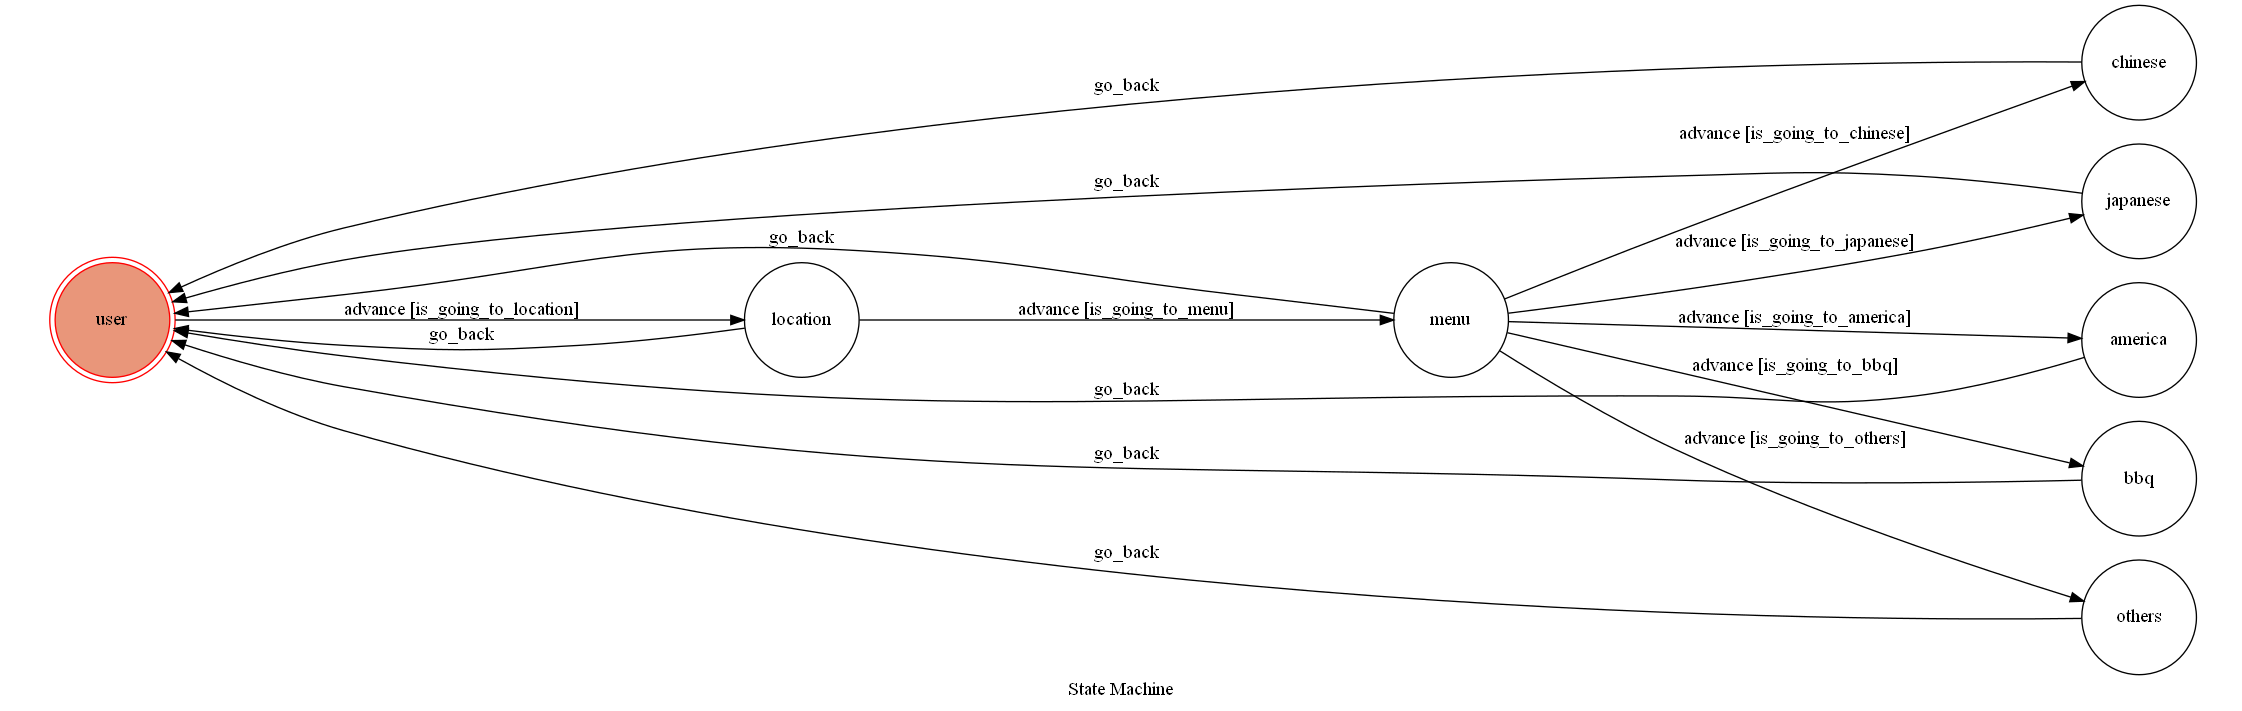
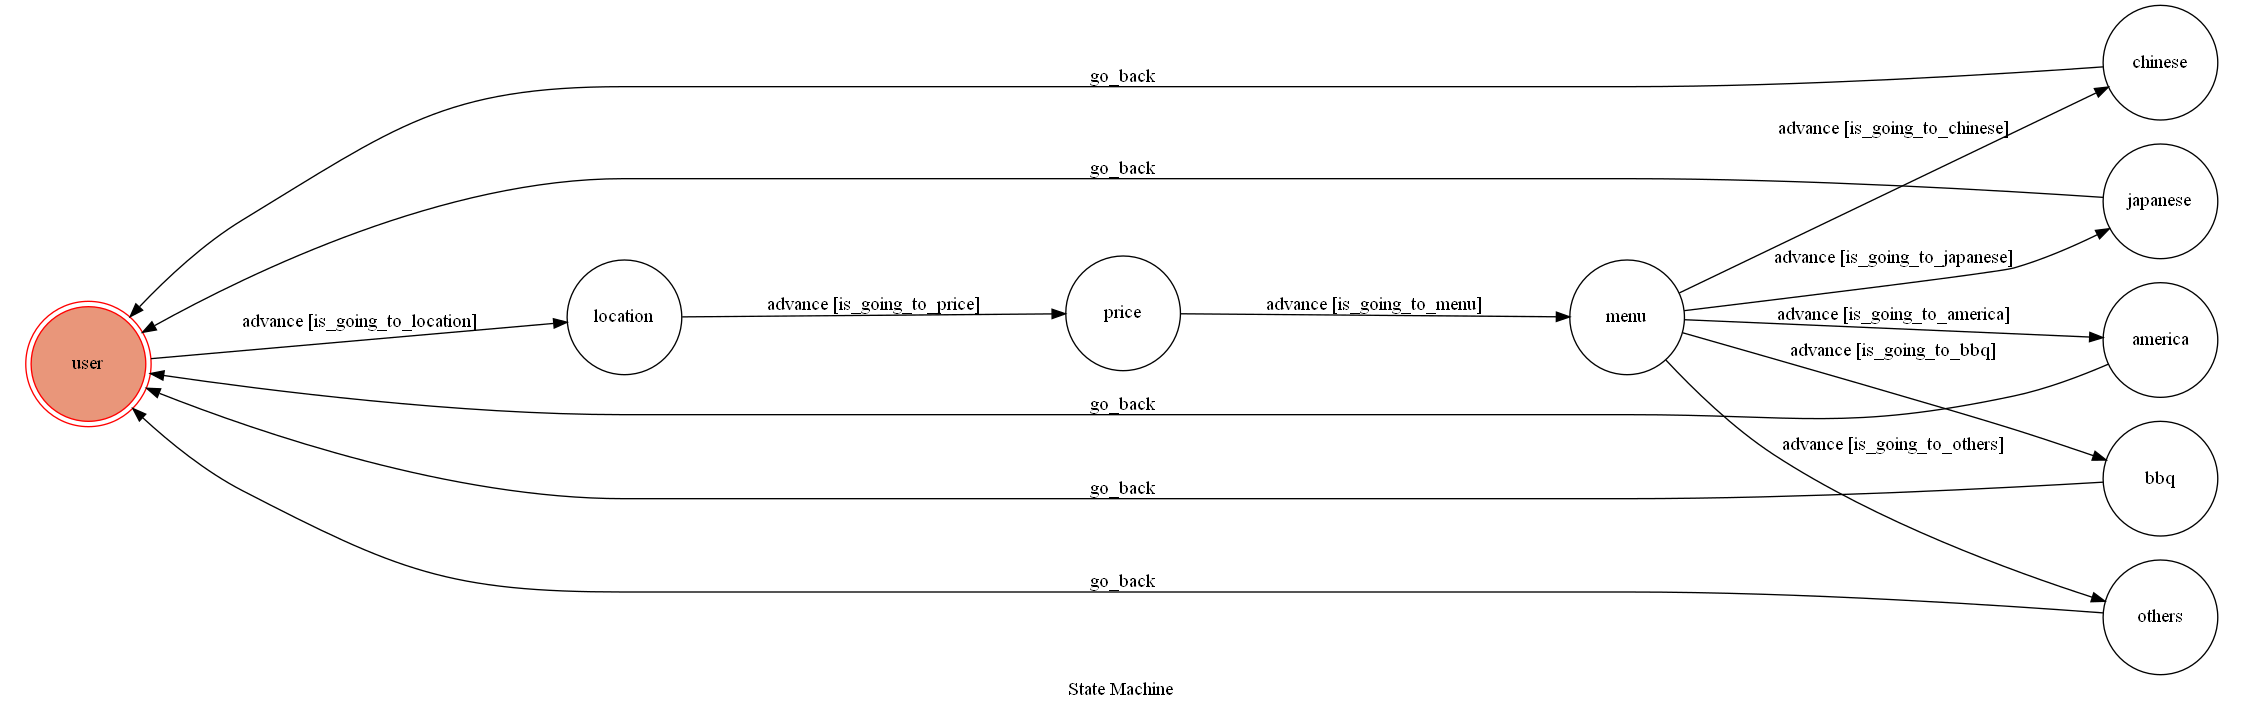
add more location and price

diff --git a/fsm.py b/fsm.py
@@ -1,6 +1,6 @@
 from transitions.extensions import GraphMachine
 
-from utils import push_text_message, send_button_message, send_image_url, send_text_message
+from utils import push_button_message, push_text_message, send_button_message, send_image_url, send_text_message
 from linebot.models import ButtonsTemplate,MessageTemplateAction
 
 import requests
@@ -14,6 +14,23 @@ class TocMachine(GraphMachine):
         text = event.message.text
         self.text=text+"市"
         return 1
+
+    def is_going_to_price(self, event):
+        text = event.message.text
+        self.price_text=text
+        if text=="150以內":
+            self.price=1
+            return 1
+        elif text=="150-600":
+            self.price=2
+            return 1
+        elif text=="600-1200":
+            self.price=3
+            return 1
+        elif text=="1200以上":
+            self.price=4
+            return 1
+        return 0
 
     def is_going_to_menu(self, event):
         text = event.message.text
@@ -41,7 +58,46 @@ class TocMachine(GraphMachine):
 
     def on_enter_location(self, event):
         print("I'm entering location")
-        push_text_message(event.source.user_id,"您選擇了%s，請輸入“選單”"%(self.text))
+        reply_token = event.reply_token
+        buttons=ButtonsTemplate(
+                                title='price',
+                                text='請選擇想要的價位',
+                                actions=[
+                                    MessageTemplateAction(
+                                        label='150以內',
+                                        text='150以內'
+                                    ),
+                                    MessageTemplateAction(
+                                        label='150-600',
+                                        text='150-600'
+                                    ),
+                                    MessageTemplateAction(
+                                        label='600-1200',
+                                        text='600-1200'
+                                    ),
+                                    MessageTemplateAction(
+                                        label='1200以上',
+                                        text='1200以上'
+                                    )
+                                ]
+                            )
+        push_text_message(event.source.user_id,"您選擇了%s"%(self.text))
+        send_button_message(reply_token,"Menu",buttons)
+        
+    def on_enter_price(self, event):
+        print("I'm entering price")
+        reply_token = event.reply_token
+        buttons=ButtonsTemplate(
+                                title='Menu',
+                                text="您選擇了%s,請點選“選單”"%(self.price_text),
+                                actions=[
+                                    MessageTemplateAction(
+                                        label='選單',
+                                        text='選單'
+                                    )
+                                ]
+                            )
+        send_button_message(reply_token,"Menu",buttons)
 
     def on_enter_menu(self, event):
         print("I'm entering menu")
@@ -78,7 +134,7 @@ class TocMachine(GraphMachine):
 
         reply_token = event.reply_token
         try:
-            url="https://ifoodie.tw/explore/"+self.text+"/list/%E4%B8%AD%E5%BC%8F%E6%96%99%E7%90%86"
+            url="https://ifoodie.tw/explore/"+self.text+"/list/中式料理?priceLevel="+str(self.price)+"&opening=true"
             res=requests.get(url)
             root=bs4.BeautifulSoup(res.text,"html.parser")
             titles=root.find_all("a")
@@ -94,7 +150,29 @@ class TocMachine(GraphMachine):
             send_text_message(reply_token,random.choice(list))
         except:
             send_text_message(reply_token,"抱歉！我們找不到您所輸入的餐廳")
-        push_text_message(event.source.user_id,"您好！若要尋找餐廳請先輸入您現在所在的城市：")
+        buttons=ButtonsTemplate(
+                                title='請選擇城市',
+                                text='您好！若要尋找餐廳請先輸入您現在所在的城市(若選項中沒有對應的城市可自行輸入)：',
+                                actions=[
+                                    MessageTemplateAction(
+                                        label='台北',
+                                        text='台北'
+                                    ),
+                                    MessageTemplateAction(
+                                        label='新北',
+                                        text='新北'
+                                    ),
+                                    MessageTemplateAction(
+                                        label='高雄',
+                                        text='高雄'
+                                    ),
+                                    MessageTemplateAction(
+                                        label='台南',
+                                        text='台南'
+                                    )
+                                ]
+                            )
+        push_button_message(event.source.user_id,"location",buttons)
         self.go_back()
 
     def on_exit_chinese(self):
@@ -105,7 +183,7 @@ class TocMachine(GraphMachine):
 
         reply_token = event.reply_token
         try:
-            url="https://ifoodie.tw/explore/"+self.text+"/list/%E6%97%A5%E6%9C%AC%E6%96%99%E7%90%86"
+            url="https://ifoodie.tw/explore/"+self.text+"/list/日式料理?priceLevel="+str(self.price)+"&opening=true"
             res=requests.get(url)
             root=bs4.BeautifulSoup(res.text,"html.parser")
             titles=root.find_all("a")
@@ -121,7 +199,29 @@ class TocMachine(GraphMachine):
             send_text_message(reply_token,random.choice(list))
         except:
             send_text_message(reply_token,"抱歉！我們找不到您所輸入的餐廳")
-        push_text_message(event.source.user_id,"您好！若要尋找餐廳請先輸入您現在所在的城市：")
+        buttons=ButtonsTemplate(
+                                title='請選擇城市',
+                                text='您好！若要尋找餐廳請先輸入您現在所在的城市(若選項中沒有對應的城市可自行輸入)：',
+                                actions=[
+                                    MessageTemplateAction(
+                                        label='台北',
+                                        text='台北'
+                                    ),
+                                    MessageTemplateAction(
+                                        label='新北',
+                                        text='新北'
+                                    ),
+                                    MessageTemplateAction(
+                                        label='高雄',
+                                        text='高雄'
+                                    ),
+                                    MessageTemplateAction(
+                                        label='台南',
+                                        text='台南'
+                                    )
+                                ]
+                            )
+        push_button_message(event.source.user_id,"location",buttons)
         self.go_back()
 
     def on_exit_japenese(self):
@@ -131,7 +231,7 @@ class TocMachine(GraphMachine):
         print("I'm entering america")
         try:
             reply_token = event.reply_token
-            url="https://ifoodie.tw/explore/"+self.text+"/list//%E7%BE%8E%E5%BC%8F%E6%96%99%E7%90%86"
+            url="https://ifoodie.tw/explore/"+self.text+"/list/美式料理?priceLevel="+str(self.price)+"&opening=true"
             res=requests.get(url)
             root=bs4.BeautifulSoup(res.text,"html.parser")
             titles=root.find_all("a")
@@ -147,7 +247,29 @@ class TocMachine(GraphMachine):
             send_text_message(reply_token,random.choice(list))
         except:
             send_text_message(reply_token,"抱歉！我們找不到您所輸入的餐廳")
-        push_text_message(event.source.user_id,"您好！若要尋找餐廳請先輸入您現在所在的城市：")
+        buttons=ButtonsTemplate(
+                                title='請選擇城市',
+                                text='您好！若要尋找餐廳請先輸入您現在所在的城市(若選項中沒有對應的城市可自行輸入)：',
+                                actions=[
+                                    MessageTemplateAction(
+                                        label='台北',
+                                        text='台北'
+                                    ),
+                                    MessageTemplateAction(
+                                        label='新北',
+                                        text='新北'
+                                    ),
+                                    MessageTemplateAction(
+                                        label='高雄',
+                                        text='高雄'
+                                    ),
+                                    MessageTemplateAction(
+                                        label='台南',
+                                        text='台南'
+                                    )
+                                ]
+                            )
+        push_button_message(event.source.user_id,"location",buttons)
         self.go_back()
 
     def on_exit_america(self):
@@ -157,7 +279,7 @@ class TocMachine(GraphMachine):
         print("I'm entering bbq")
         try:
             reply_token = event.reply_token
-            url="https://ifoodie.tw/explore/"+self.text+"/list/%E7%87%92%E7%83%A4"
+            url="https://ifoodie.tw/explore/"+self.text+"/list/燒烤?priceLevel="+str(self.price)+"&opening=true"
             res=requests.get(url)
             root=bs4.BeautifulSoup(res.text,"html.parser")
             titles=root.find_all("a")
@@ -173,7 +295,29 @@ class TocMachine(GraphMachine):
             send_text_message(reply_token,random.choice(list))
         except:
             send_text_message(reply_token,"抱歉！我們找不到您所輸入的餐廳")
-        push_text_message(event.source.user_id,"您好！若要尋找餐廳請先輸入您現在所在的城市：")
+        buttons=ButtonsTemplate(
+                                title='請選擇城市',
+                                text='您好！若要尋找餐廳請先輸入您現在所在的城市(若選項中沒有對應的城市可自行輸入)：',
+                                actions=[
+                                    MessageTemplateAction(
+                                        label='台北',
+                                        text='台北'
+                                    ),
+                                    MessageTemplateAction(
+                                        label='新北',
+                                        text='新北'
+                                    ),
+                                    MessageTemplateAction(
+                                        label='高雄',
+                                        text='高雄'
+                                    ),
+                                    MessageTemplateAction(
+                                        label='台南',
+                                        text='台南'
+                                    )
+                                ]
+                            )
+        push_button_message(event.source.user_id,"location",buttons)
         self.go_back()
 
     def on_exit_bbq(self):
@@ -183,7 +327,7 @@ class TocMachine(GraphMachine):
         print("I'm entering others")
         try:
             reply_token = event.reply_token
-            url="https://ifoodie.tw/explore/"+self.text+"/list/"+self.type
+            url="https://ifoodie.tw/explore/"+self.text+"/list/"+self.type+"?priceLevel="+str(self.price)+"&opening=true"
             res=requests.get(url)
             root=bs4.BeautifulSoup(res.text,"html.parser")
             titles=root.find_all("a")
@@ -199,7 +343,29 @@ class TocMachine(GraphMachine):
             send_text_message(reply_token,random.choice(list))
         except:
             send_text_message(reply_token,"抱歉！我們找不到您所輸入的餐廳")
-        push_text_message(event.source.user_id,"您好！若要尋找餐廳請先輸入您現在所在的城市：")
+        buttons=ButtonsTemplate(
+                                title='請選擇城市',
+                                text='您好！若要尋找餐廳請先輸入您現在所在的城市(若選項中沒有對應的城市可自行輸入)：',
+                                actions=[
+                                    MessageTemplateAction(
+                                        label='台北',
+                                        text='台北'
+                                    ),
+                                    MessageTemplateAction(
+                                        label='新北',
+                                        text='新北'
+                                    ),
+                                    MessageTemplateAction(
+                                        label='高雄',
+                                        text='高雄'
+                                    ),
+                                    MessageTemplateAction(
+                                        label='台南',
+                                        text='台南'
+                                    )
+                                ]
+                            )
+        push_button_message(event.source.user_id,"location",buttons)
         self.go_back()
 
     def on_exit_others(self):

diff --git a/machine.py b/machine.py
@@ -1,7 +1,7 @@
 from fsm import TocMachine
 def create_machine():
     machine = TocMachine(
-        states=["user", "menu","location", "chinese","japanese","america","bbq","others"],
+        states=["user", "menu","location", "chinese","japanese","america","bbq","others","price"],
         transitions=[
             {
                 "trigger": "advance",
@@ -12,6 +12,12 @@ def create_machine():
             {
                 "trigger": "advance",
                 "source": "location",
+                "dest": "price",
+                "conditions": "is_going_to_price",
+            },
+            {
+                "trigger": "advance",
+                "source": "price",
                 "dest": "menu",
                 "conditions": "is_going_to_menu",
             },
@@ -45,7 +51,7 @@ def create_machine():
                 "dest": "others",
                 "conditions": "is_going_to_others",
             },
-            {"trigger": "go_back", "source": ["menu", "chinese","japanese","america","bbq","location","others"], "dest": "user"},
+            {"trigger": "go_back", "source": ["chinese","japanese","america","bbq","others"], "dest": "user"},
         ],
         initial="user",
         auto_transitions=False,

diff --git a/utils.py b/utils.py
@@ -28,7 +28,17 @@ def push_text_message(reply_token, text):
     line_bot_api.push_message(reply_token, TextSendMessage(text=text))
 
     return "OK"
-
+def push_button_message(reply_token,text,buttons):
+    line_bot_api = LineBotApi(channel_access_token)
+    line_bot_api.push_message(  # 回復傳入的訊息文字
+                        reply_token,
+                        TemplateSendMessage(
+                            alt_text=text,
+                            template=buttons
+                        )
+                    )
+    return "OK"
+    
 def send_image_url(id, img_url):
     line_bot_api = LineBotApi(channel_access_token)
     message = ImageSendMessage(

diff --git a/app.py b/app.py
@@ -99,6 +99,6 @@ def show_fsm():
 
 
 if __name__ == "__main__":
-    #machine.get_graph().draw("img/show-fsm.png", prog="dot", format="png")
+    machine.get_graph().draw("img/show-fsm.png", prog="dot", format="png")
     port = os.environ.get("PORT", 8000)
     app.run(host="0.0.0.0", port=port, debug=True)
